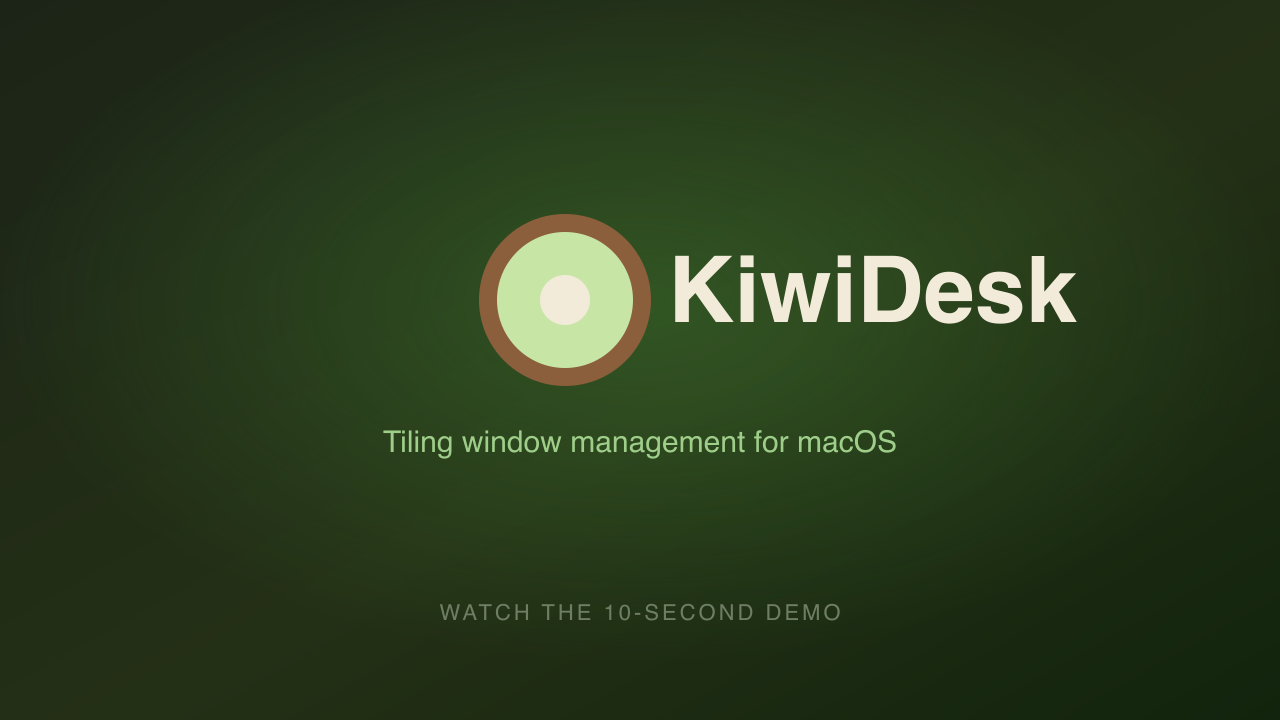
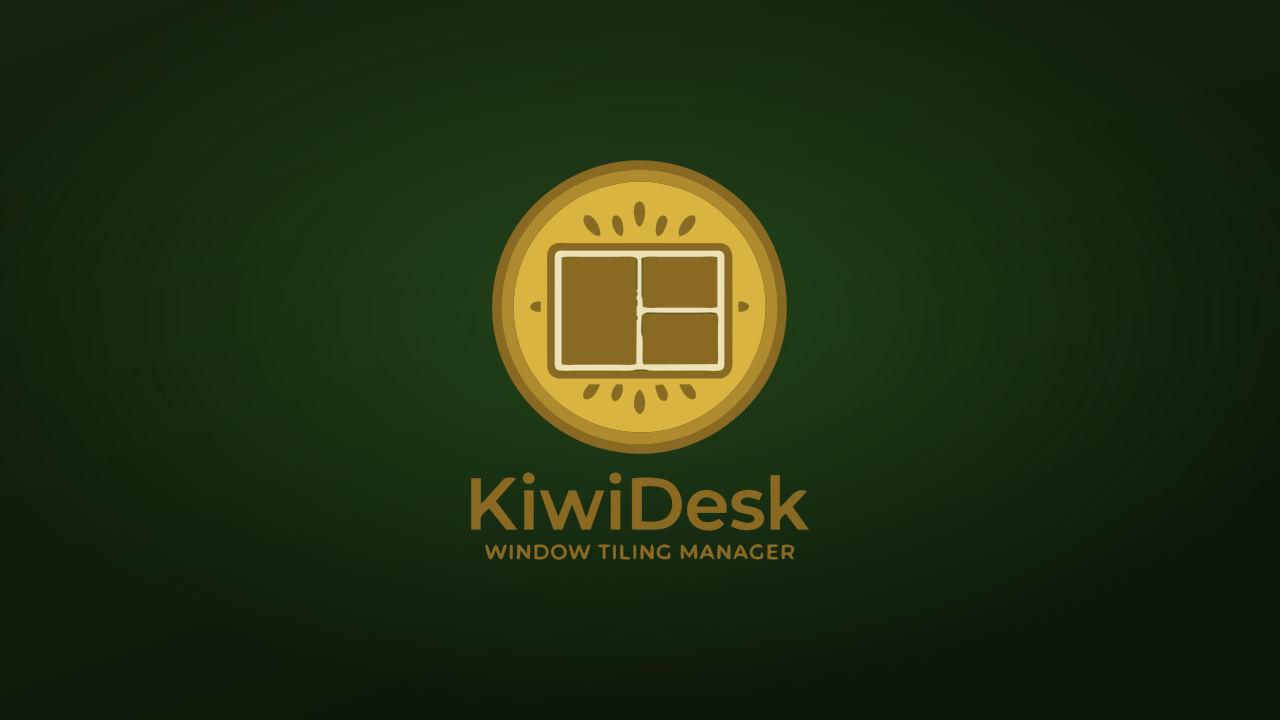
fix(site): review fixes — doc links, single H1, CI, poster, footer
Address code-reviewer + architect-reviewer findings on the site:

- Add a remark plugin (remark-docs-links.mjs) that rewrites the
  canonical docs' GitHub-style relative .md links to Starlight
  routes and drops their duplicate H1 — both fixed on the
  Starlight side so the docs stay correct on GitHub. Was: ~27
  dead cross-links and two H1s per page on the deployed site.
- Add a path-filtered Ubuntu site-build CI job (site.yml) so a
  broken astro build fails the PR gate instead of Cloudflare
  post-merge (the gap that let both majors ship green).
- Make og:image an absolute URL (social crawlers ignore
  relative), add the dark --sl-color-gray-7 ramp step, and
  document gen-poster.mjs as a manual step.

Landing polish (user feedback):
- Rebuild the video poster as a branded KiwiDesk banner (real
  wordmark on the dark background) instead of the text card.
- Video section reworked for the animated-kiwi ad: 'Say hello to
  KiwiDesk' + a motivating line, 'Click to play' caption.
- Footer: drop the redundant tagline (the Kiwi Solutions lockup
  carries the name), enlarge the mark, lay it flat on the bg.

Commit assets/kiwi-solutions.png — the footer's build dependency.

Claude-Session: https://claude.ai/code/session_0188TsGvxQe8d7qhb3g3TS9V

Changed region(s): [[0.3125, 0.2139, 0.8438, 0.7944], [0.3438, 0.825, 0.6562, 0.8556]]

diff --git a/site/src/styles/theme.css b/site/src/styles/theme.css
@@ -21,6 +21,7 @@
   --sl-color-gray-4: #556150;
   --sl-color-gray-5: #384033;
   --sl-color-gray-6: #252a22;
+  --sl-color-gray-7: #1e2219;
   --sl-color-black: #191d17;
 }
 
